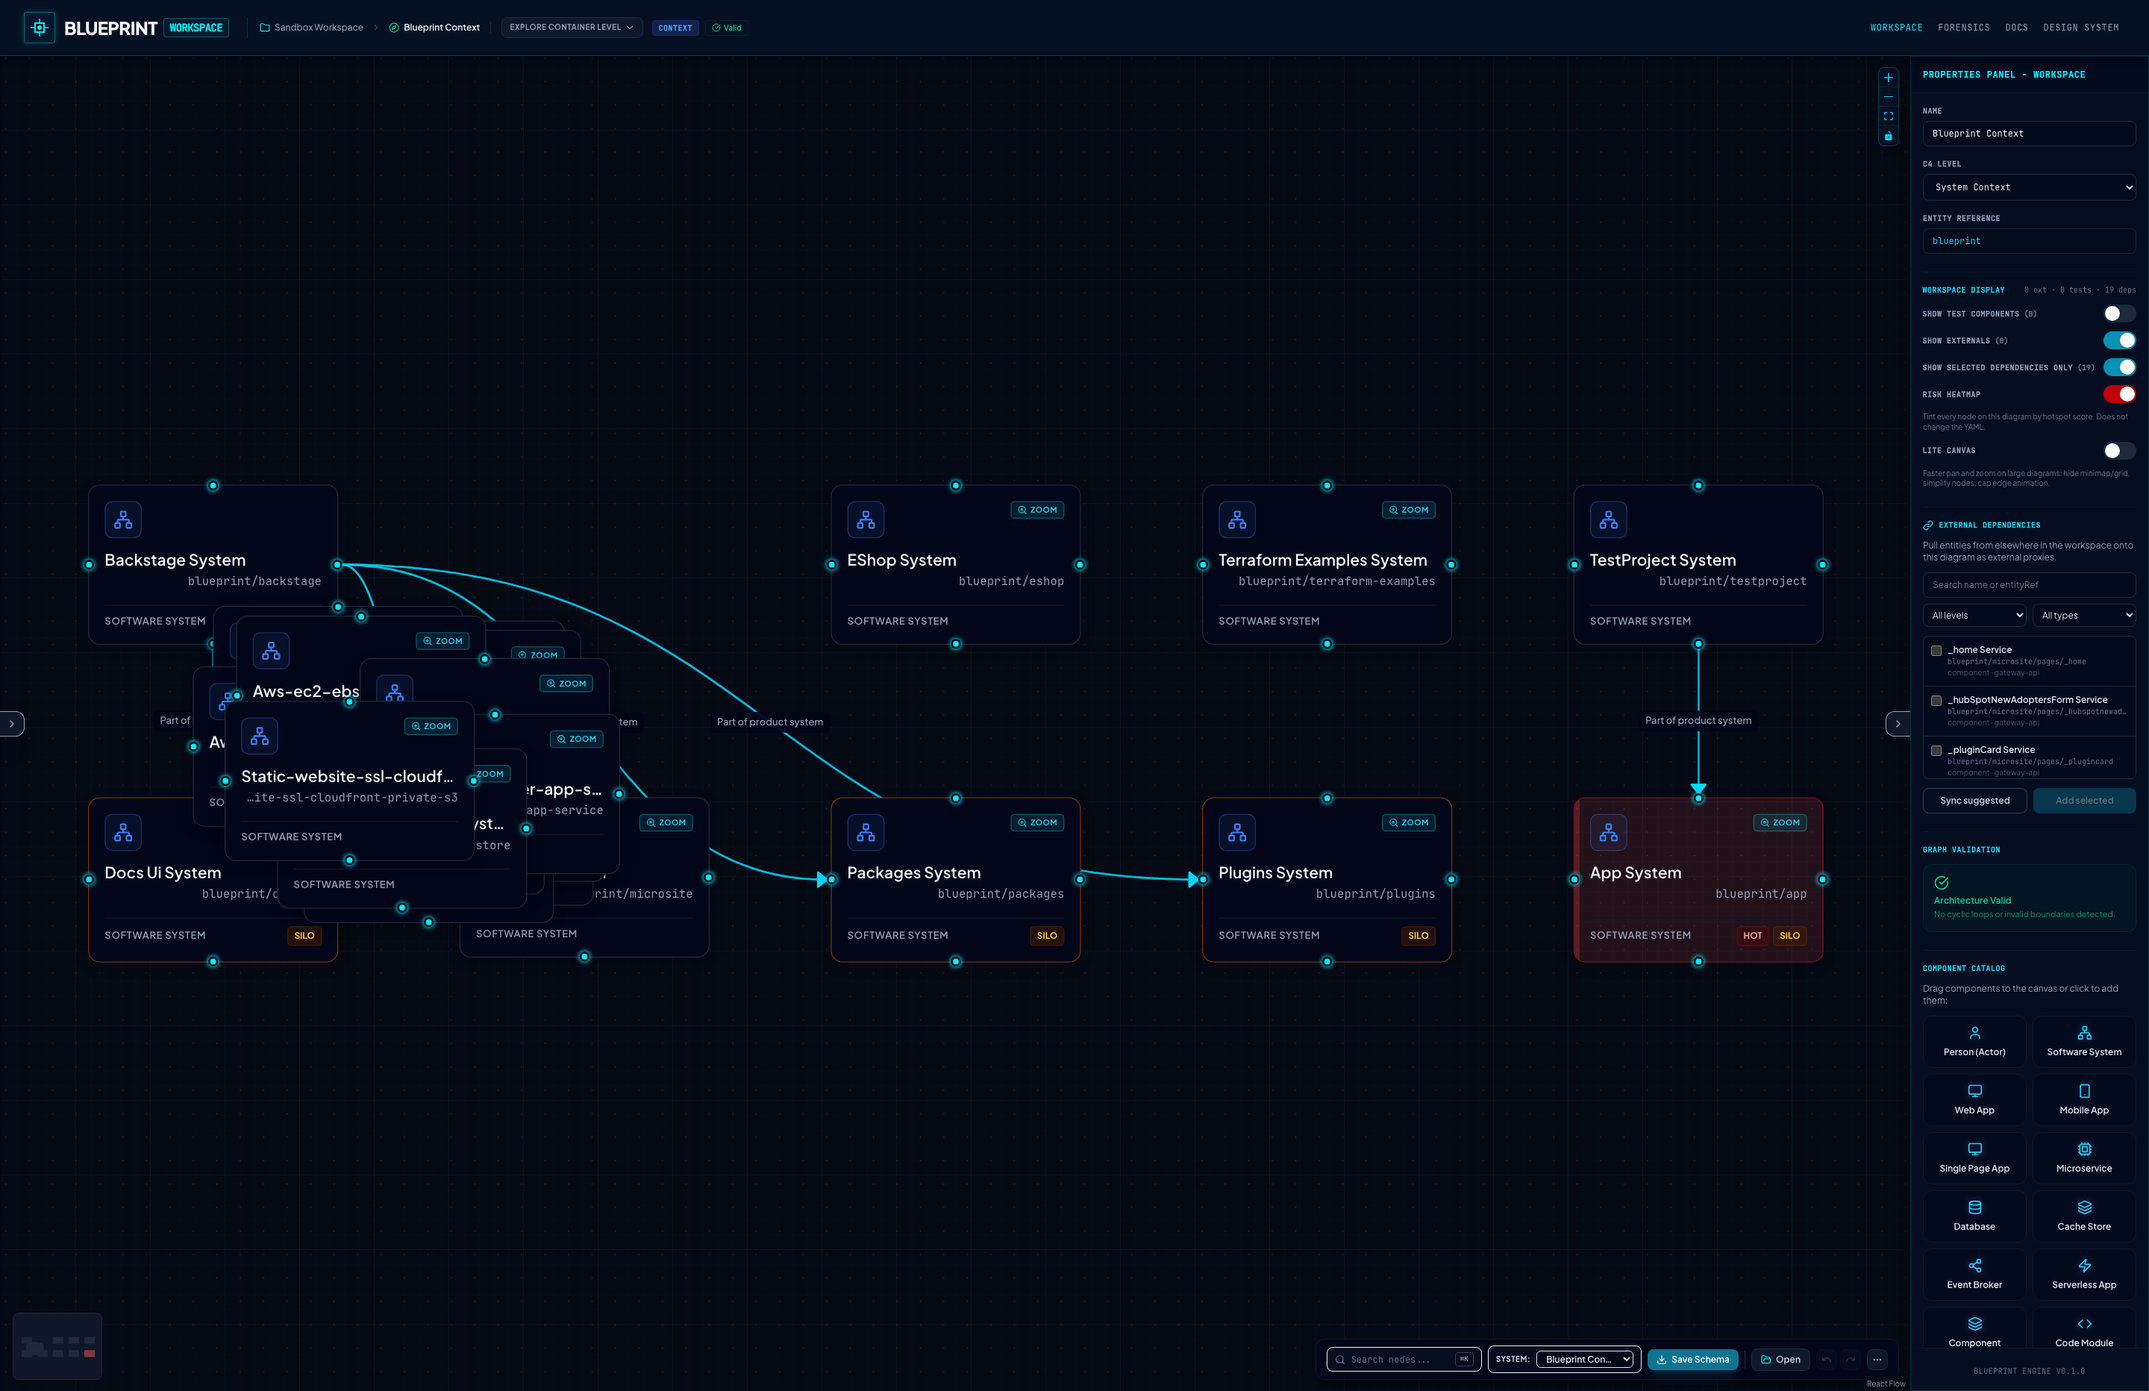
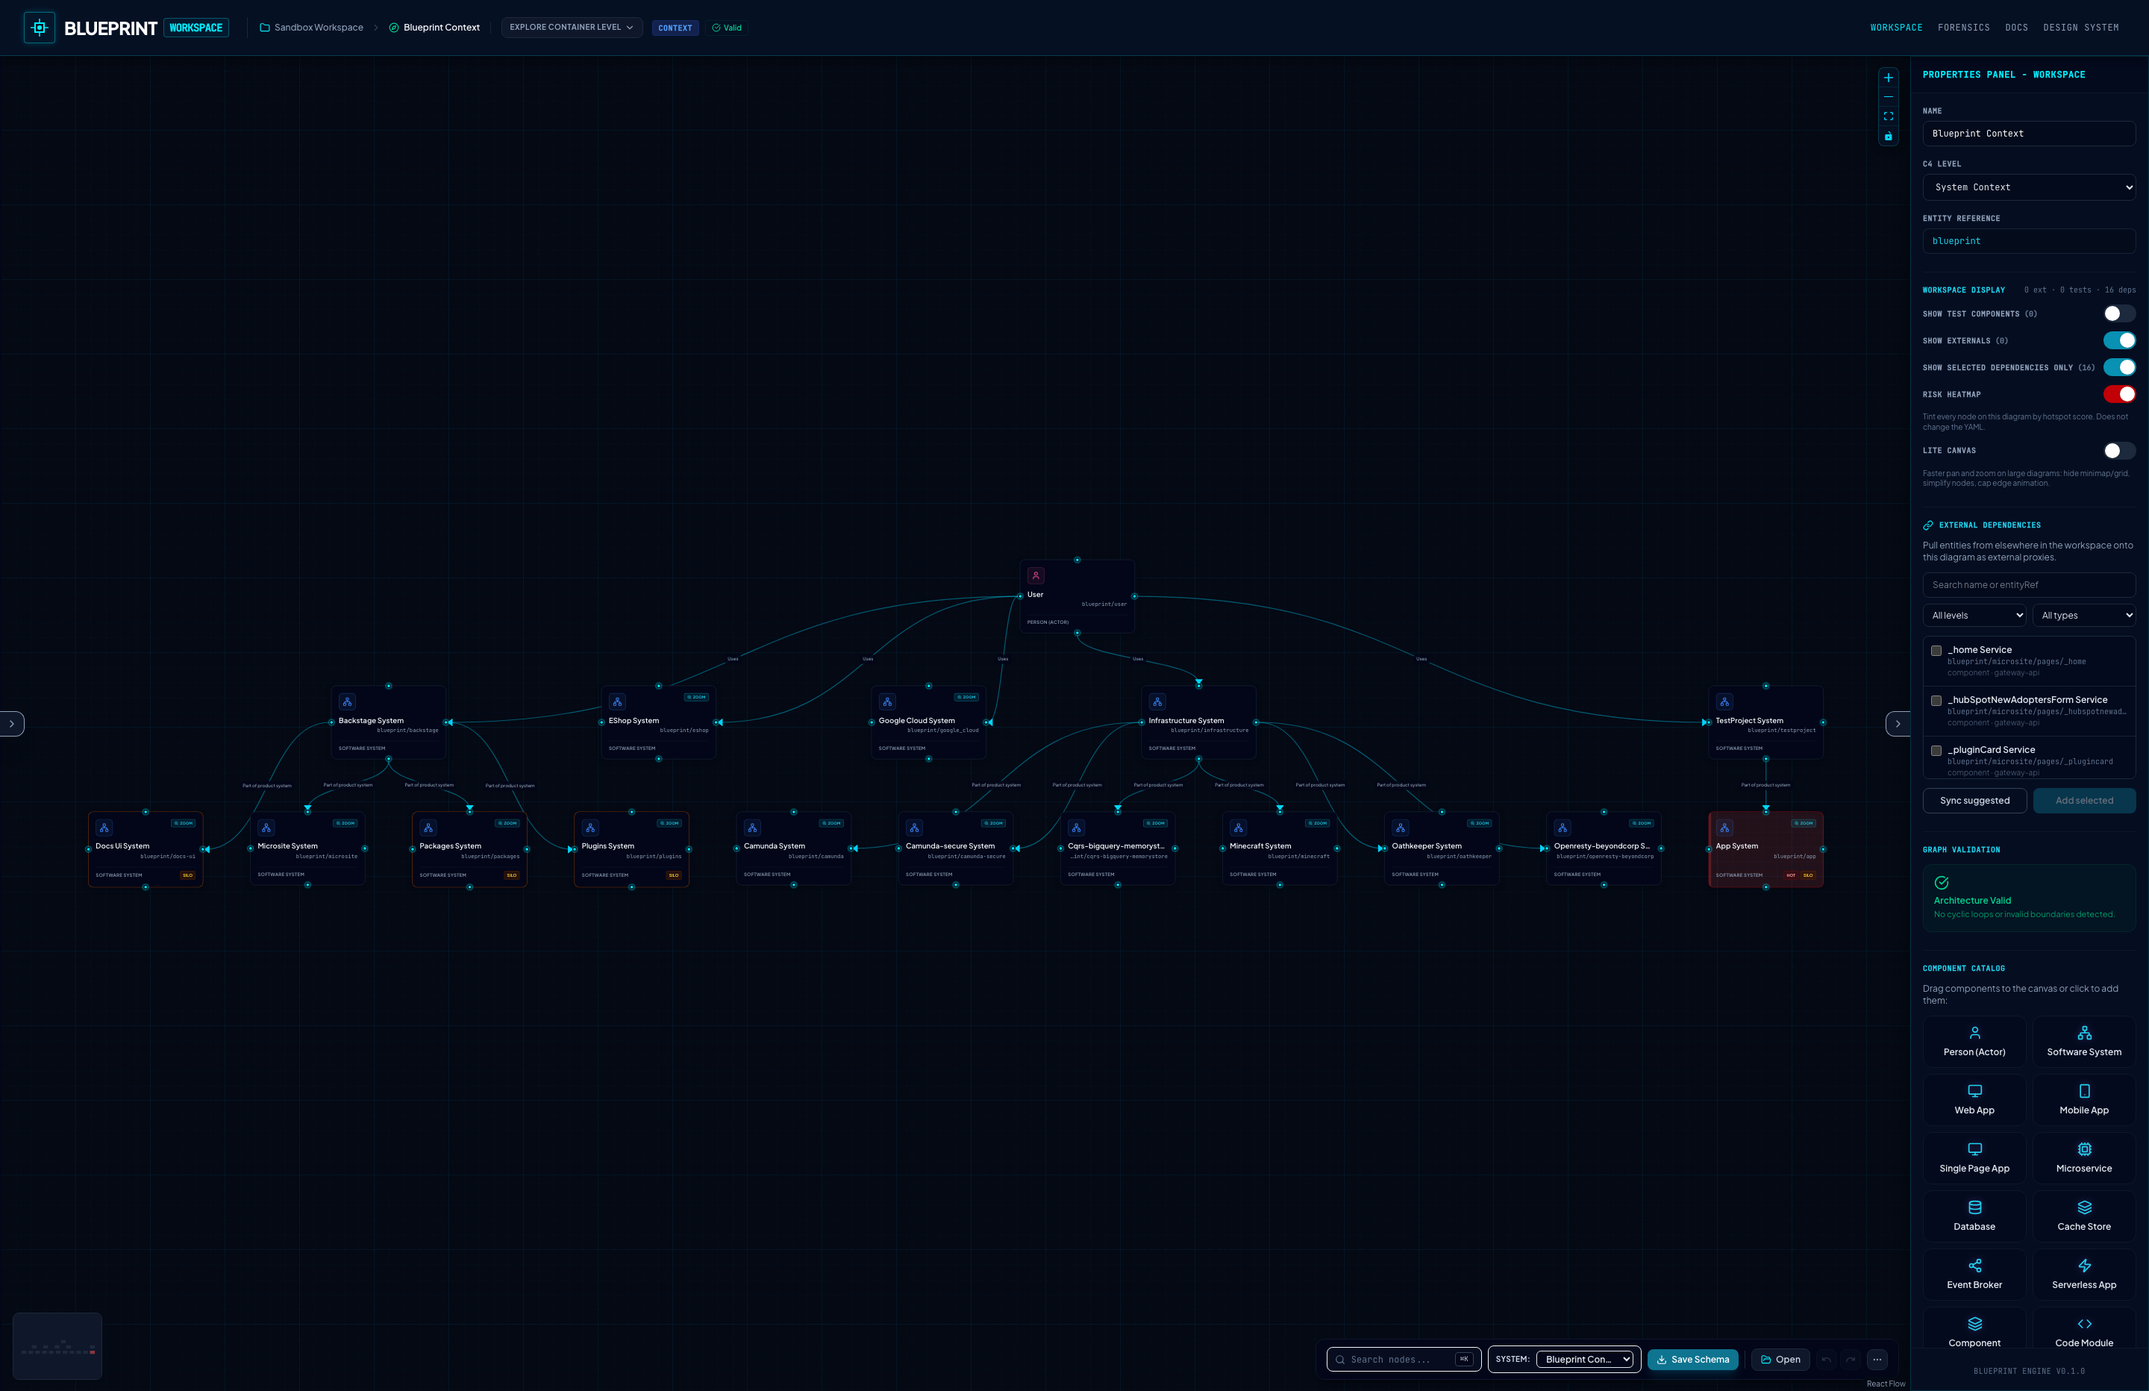
feat: add mapDomainDepsToRFEdges function to drop duplicate edges and update related usages across layout utilities and diagram state management

diff --git a/app/packages/designer/tests/e2e.spec.ts b/app/packages/designer/tests/e2e.spec.ts
@@ -30,8 +30,10 @@ test.describe('Blueprint E2E Journeys', () => {
   });
 
   test('Workspace Selection & Visual Panel Collapse', async ({ page }) => {
+    test.setTimeout(60_000);
     await page.goto('/workspace');
     await continueWithSandbox(page);
+    await expect(page.getByTestId('startup-workspace-dialog')).toHaveCount(0);
 
     const leftPanelButton = page.locator('button[aria-label="Toggle Left Panel"]');
     const rightPanelButton = page.locator('button[aria-label="Toggle Right Panel"]');
@@ -62,6 +64,7 @@ test.describe('Blueprint E2E Journeys', () => {
   });
 
   test('Visual C4 Navigation (Zoom In / Zoom Out / URL Routing)', async ({ page }) => {
+    test.setTimeout(60_000);
     await page.goto('/workspace/blueprint');
     await continueWithSandbox(page);
     await page.locator('button[aria-label="Toggle Right Panel"]').click();
@@ -92,12 +95,15 @@ test.describe('Blueprint E2E Journeys', () => {
     await expect(page.locator('#workspace-slug-input')).toHaveValue('blueprint/app/app');
     expect(page.url()).toContain('/workspace/blueprint/app/app');
 
+    // Blur inputs so Escape is handled as zoom-out, not ignored while typing.
+    await page.evaluate(() => (document.activeElement as HTMLElement | null)?.blur());
     await page.keyboard.press('Escape');
 
     await expect(page.locator('#workspace-name-input')).toHaveValue('App Containers');
     await expect(page.locator('#workspace-slug-input')).toHaveValue('blueprint/app');
     expect(page.url()).toContain('/workspace/blueprint/app');
 
+    await page.evaluate(() => (document.activeElement as HTMLElement | null)?.blur());
     await page.keyboard.press('Escape');
 
     await expect(page.locator('#workspace-name-input')).toHaveValue('Blueprint Context');

diff --git a/app/packages/designer/tests/e2e-journeys.spec.ts b/app/packages/designer/tests/e2e-journeys.spec.ts
@@ -184,6 +184,7 @@ async function seedStaleDraft(page: Page) {
 
 test.describe('Hierarchy zoom journeys', () => {
   test('Zoom out button and breadcrumb return to parent', async ({ page }) => {
+    test.setTimeout(60_000);
     await page.goto('/workspace/blueprint');
     await continueWithSandbox(page);
     await page.locator('button[aria-label="Toggle Right Panel"]').click();
@@ -210,13 +211,17 @@ test.describe('Hierarchy zoom journeys', () => {
     await appSystem.dblclick();
     await expect(page.locator('#workspace-slug-input')).toHaveValue('blueprint/app');
 
-    const contextCrumb = page.locator('a[href="/workspace/blueprint"]').first();
+    const contextCrumb = page.getByRole('link', { name: /Blueprint Context/i });
     await expect(contextCrumb).toBeVisible();
     await contextCrumb.click();
-    await expect(page.locator('#workspace-slug-input')).toHaveValue('blueprint');
+    await expect(page).toHaveURL(/\/workspace\/blueprint$/);
+    await expect(page.locator('#workspace-slug-input')).toHaveValue('blueprint', {
+      timeout: 10000,
+    });
   });
 
   test('Backspace zooms out one level', async ({ page }) => {
+    test.setTimeout(60_000);
     await page.goto('/workspace/blueprint');
     await continueWithSandbox(page);
     await page.locator('button[aria-label="Toggle Right Panel"]').click();
@@ -229,6 +234,7 @@ test.describe('Hierarchy zoom journeys', () => {
       timeout: 10000,
     });
 
+    await page.evaluate(() => (document.activeElement as HTMLElement | null)?.blur());
     await page.keyboard.press('Backspace');
     await expect(page.locator('#workspace-slug-input')).toHaveValue('blueprint');
   });

diff --git a/app/reporters/vitestFeatureReporter.ts b/app/reporters/vitestFeatureReporter.ts
@@ -3,7 +3,9 @@
  * Emits Markdown feature docs from describe/it titles (behavioral tests only),
  * grouped as Package → File → describe tree.
  */
+import fs from 'node:fs';
 import path from 'node:path';
+import prettier from 'prettier';
 import type { Reporter, TestCase, TestModule, TestSuite } from 'vitest/node';
 import { XFeatureReporter } from 'x-feature-reporter';
 import { MarkdownAdapter } from 'x-feature-reporter/adapters/markdown';
@@ -103,6 +105,19 @@ function sortBuckets(bucket: SuiteBucket): void {
   for (const child of bucket.suites) sortBuckets(child);
 }
 
+/** Format report Markdown so it matches project Prettier rules. */
+export async function formatFeatureMarkdownFile(filePath: string): Promise<void> {
+  const source = fs.readFileSync(filePath, 'utf8');
+  const config = await prettier.resolveConfig(filePath);
+  const formatted = await prettier.format(source, {
+    ...config,
+    filepath: filePath,
+  });
+  if (formatted !== source) {
+    fs.writeFileSync(filePath, formatted);
+  }
+}
+
 export class VitestFeatureReporter implements Reporter {
   readonly options: Required<Pick<VitestFeatureReporterOptions, 'outputFile'>> &
     VitestFeatureReporterOptions;
@@ -147,5 +162,6 @@ export class VitestFeatureReporter implements Reporter {
       embeddingPlaceholder: this.options.embeddingPlaceholder,
     });
     new XFeatureReporter(adapter).generateReport(xRoot);
+    await formatFeatureMarkdownFile(outputFile);
   }
 }

diff --git a/app/packages/designer/src/application/store/states/diagramState/initialState.ts b/app/packages/designer/src/application/store/states/diagramState/initialState.ts
@@ -4,7 +4,11 @@ import {
   resolveWorkspaceEntityRefs,
   type SystemSchema,
 } from '@blueprint/core';
-import { mapDomainNodeToRFNode, mapDomainDepToRFEdge, getClosestHandles } from '../../layoutUtils';
+import {
+  mapDomainNodeToRFNode,
+  mapDomainDepsToRFEdges,
+  getClosestHandles,
+} from '../../layoutUtils';
 import type { BlueprintRFNode, BlueprintRFEdge } from '../../layoutUtils';
 import { defaultLoadedSystems, defaultInitialSchema } from '../../defaultData';
 
@@ -49,9 +53,8 @@ export function createDiagramInitialState(): DiagramInitialState {
         },
       };
     });
-  const initialEdges = initialSchemaResolved.dependencies
-    .map(mapDomainDepToRFEdge)
-    .map((edge: BlueprintRFEdge) => {
+  const initialEdges = mapDomainDepsToRFEdges(initialSchemaResolved.dependencies).map(
+    (edge: BlueprintRFEdge) => {
       const sourceNode = initialNodes.find((n: BlueprintRFNode) => n.id === edge.source);
       const targetNode = initialNodes.find((n: BlueprintRFNode) => n.id === edge.target);
       if (!sourceNode || !targetNode) return edge;
@@ -61,7 +64,8 @@ export function createDiagramInitialState(): DiagramInitialState {
         sourceHandle,
         targetHandle,
       };
-    });
+    }
+  );
 
   return {
     schema: initialSchemaResolved,

diff --git a/app/reporters/vitestFeatureReporter.test.ts b/app/reporters/vitestFeatureReporter.test.ts
@@ -90,6 +90,9 @@ describe('VitestFeatureReporter', () => {
     expect(md).not.toContain('computes layout coordinates');
     // Packages sorted alphabetically: Core before Designer
     expect(md.indexOf('## Core')).toBeLessThan(md.indexOf('## Designer'));
+    // Prettier-compatible list markers and heading spacing
+    expect(md).toMatch(/\n- ✅ collapses the side panels\n/);
+    expect(md).toMatch(/## Designer\n\n### Canvas\n\n#### Canvas\n\n- ✅/);
   });
 
   it('embeds into an existing file between placeholders', async () => {
@@ -112,6 +115,11 @@ describe('VitestFeatureReporter', () => {
     expect(md).toContain('#### Workspace');
     expect(md).toContain('✅ loads the sandbox');
     expect(md).not.toContain('\nold\n');
+    expect(md).toMatch(
+      new RegExp(
+        `<!-- ${embeddingPlaceholder}--start -->\\n\\n## Designer\\n\\n### Canvas\\n\\n#### Workspace\\n\\n- ✅ loads the sandbox\\n\\n<!-- ${embeddingPlaceholder}--end -->`
+      )
+    );
   });
 
   it('marks failed and skipped tests with the correct icons', async () => {

diff --git a/app/packages/designer/src/application/store/layoutUtils.test.ts b/app/packages/designer/src/application/store/layoutUtils.test.ts
@@ -1,5 +1,10 @@
 import { describe, expect, it } from 'vitest';
-import { mapDomainNodeToRFNode, rebuildSchemaFromCanvas } from './layoutUtils.ts';
+import {
+  mapDomainDepToRFEdge,
+  mapDomainDepsToRFEdges,
+  mapDomainNodeToRFNode,
+  rebuildSchemaFromCanvas,
+} from './layoutUtils.ts';
 import type { SystemNode } from '@blueprint/core';
 
 describe('layoutUtils forensics plumbing', () => {
@@ -41,5 +46,20 @@ describe('layoutUtils forensics plumbing', () => {
       authorCount: 1,
       classifications: ['knowledge-silo'],
     });
+  });
+});
+
+describe('mapDomainDepsToRFEdges', () => {
+  it('drops duplicate from→to edges that would share a React key', () => {
+    const dep = {
+      from: 'a',
+      to: 'b',
+      type: 'direct-call' as const,
+      description: 'once',
+    };
+    const edges = mapDomainDepsToRFEdges([dep, { ...dep, description: 'again' }, dep]);
+    expect(edges).toHaveLength(1);
+    expect(edges[0]?.id).toBe(mapDomainDepToRFEdge(dep).id);
+    expect(edges[0]?.data?.description).toBe('once');
   });
 });

diff --git a/app/packages/designer/src/application/store/states/diagramState.ts b/app/packages/designer/src/application/store/states/diagramState.ts
@@ -14,7 +14,7 @@ import {
   type WorkspaceEntity,
 } from '@blueprint/core';
 import type { CanvasNodeChange, CanvasEdgeChange, CanvasConnection } from '../../../core';
-import { mapDomainNodeToRFNode, mapDomainDepToRFEdge } from '../layoutUtils';
+import { mapDomainNodeToRFNode, mapDomainDepsToRFEdges } from '../layoutUtils';
 import type { BlueprintRFNode, BlueprintRFEdge } from '../layoutUtils';
 import { applyStateUpdates } from './diagramState/applyStateUpdates';
 import { syncExternalContainers as syncExternalContainersAction } from './diagramState/syncExternalContainers';
@@ -221,7 +221,7 @@ export const createDiagramState = (set: any, get: () => DiagramStateDeps): Diagr
     get().clearHistory();
     set({ focusedCyclePath: null });
     const rfNodes = schema.nodes.map(mapDomainNodeToRFNode);
-    const rfEdges = schema.dependencies.map(mapDomainDepToRFEdge);
+    const rfEdges = mapDomainDepsToRFEdges(schema.dependencies);
     applyStateUpdates(
       set,
       get,

diff --git a/app/packages/designer/src/application/store/states/diagramState/importMermaid.ts b/app/packages/designer/src/application/store/states/diagramState/importMermaid.ts
@@ -10,7 +10,7 @@ import {
   type SystemSchema,
 } from '@blueprint/core';
 import type { BlueprintRFNode } from '../../layoutUtils';
-import { mapDomainDepToRFEdge, mapDomainNodeToRFNode } from '../../layoutUtils';
+import { mapDomainDepsToRFEdges, mapDomainNodeToRFNode } from '../../layoutUtils';
 import { applyStateUpdates } from './applyStateUpdates';
 
 type LoadedSystem = { path: string; name: string; schema: SystemSchema };
@@ -173,7 +173,7 @@ export function executeMermaidImport(
     const merged = applyImportMergePlan(baseSchema, scopedImported, resolutions);
     const finalSchema = resolveScopedSchema(context, merged);
     const mergedRfNodes = buildMergedRfNodes(nodes, finalSchema, previousRefs);
-    const mergedRfEdges = finalSchema.dependencies.map(mapDomainDepToRFEdge);
+    const mergedRfEdges = mapDomainDepsToRFEdges(finalSchema.dependencies);
 
     recordHistory();
     applyStateUpdates(set, get, mergedRfNodes, mergedRfEdges);

diff --git a/app/packages/designer/tests/helpers/toolbar.ts b/app/packages/designer/tests/helpers/toolbar.ts
@@ -7,13 +7,15 @@ function isBareWorkspaceUrl(page: Page): boolean {
 
 /** Dismiss the startup chooser by continuing with the bundled sandbox. */
 export async function continueWithSandbox(page: Page) {
-  if (!isBareWorkspaceUrl(page)) return;
-
   const dialog = page.getByTestId('startup-workspace-dialog');
-  try {
-    await dialog.waitFor({ state: 'visible', timeout: 5_000 });
-  } catch {
-    return;
+  // Deep links usually skip the chooser, but still dismiss if it is visible.
+  if (!(await dialog.isVisible().catch(() => false))) {
+    if (!isBareWorkspaceUrl(page)) return;
+    try {
+      await dialog.waitFor({ state: 'visible', timeout: 5_000 });
+    } catch {
+      return;
+    }
   }
   await page.getByTestId('startup-load-sandbox').click();
   await expect(dialog).toHaveCount(0);

diff --git a/app/packages/designer/src/application/store/layoutUtils.ts b/app/packages/designer/src/application/store/layoutUtils.ts
@@ -155,6 +155,19 @@ export const mapDomainDepToRFEdge = (d: SystemDependency): BlueprintRFEdge => ({
   labelBgBorderRadius: 4,
 });
 
+/** Map deps to RF edges, dropping duplicate from→to pairs (same React key). */
+export const mapDomainDepsToRFEdges = (deps: SystemDependency[]): BlueprintRFEdge[] => {
+  const seen = new Set<string>();
+  const edges: BlueprintRFEdge[] = [];
+  for (const dep of deps) {
+    const edge = mapDomainDepToRFEdge(dep);
+    if (seen.has(edge.id)) continue;
+    seen.add(edge.id);
+    edges.push(edge);
+  }
+  return edges;
+};
+
 export const getClosestHandles = (
   sourceNode: BlueprintRFNode,
   targetNode: BlueprintRFNode

diff --git a/docs/features-unit.md b/docs/features-unit.md
@@ -132,6 +132,10 @@ Generated from Vitest (`pnpm test:coverage`).
 - ✅ should upsert rather than duplicate when rewriting the same system
 - ✅ should log successful write
 
+#### personDependenciesForSystems
+
+- ✅ links the person to product hubs only
+
 #### productHubDependenciesForSystems
 
 - ✅ fans spokes into the product hub and ignores other products
@@ -176,6 +180,13 @@ Generated from Vitest (`pnpm test:coverage`).
 
 - ✅ skips GlobalUsings, Migrations, Designer, and ModelSnapshot files
 - ✅ keeps architectural sources
+
+### d3HierarchyLayout
+
+#### D3HierarchyLayoutAdapter
+
+- ✅ places tree children below the root
+- ✅ roots context layout at the person node when present
 
 ### dagreLayout
 
@@ -264,6 +275,7 @@ Generated from Vitest (`pnpm test:coverage`).
 - ✅ preserves existing positions when forceRelayout is false
 - ✅ forceRelayout defaults to true and recomputes all positions
 - ✅ is a no-op when the blueprints tree is empty
+- ✅ uses contextLayout for context-level schemas and dagre layout for others
 
 ### layoutWithPreservation
 
@@ -367,6 +379,7 @@ Generated from Vitest (`pnpm test:coverage`).
 #### TerraformAnalyzer
 
 - ✅ parses a terraform root and writes containers.yaml + context node
+- ✅ links multiple terraform roots under one Infrastructure hub
 - ✅ no-ops when no terraform roots exist
 
 ### terraformDiscovery
@@ -749,8 +762,8 @@ Generated from Vitest (`pnpm test:coverage`).
 #### BlueprintNode Component
 
 - ✅ renders correctly with basic node details
-- ✅ simplifies handles and chrome when liteCanvas is on
-- ✅ simplifies chrome when zoomed out
+- ✅ simplifies chrome when liteCanvas is on but keeps all edge handles mounted
+- ✅ simplifies chrome when zoomed out but keeps edge handles mounted
 - ✅ shows HOT and SILO badges for concerning forensics
 - ✅ shows COUPLED badge when couplingHighlight is set
 - ✅ exposes hotspot heat intensity for styling when heatmap is active
@@ -958,6 +971,13 @@ Generated from Vitest (`pnpm test:coverage`).
 #### DocsPage feature filter
 
 - ✅ filters the feature report as the user types
+- ✅ filters to a package when a package chip is clicked without filling the search box
+
+### DocsShell
+
+#### DocsShell
+
+- ✅ shows separate mobile scrollers for product guide and reference
 
 ### elkLayoutAdapter
 
@@ -999,6 +1019,7 @@ Generated from Vitest (`pnpm test:coverage`).
 - ✅ keeps all descendants under a matching heading
 - ✅ keeps parent package/file headings when a nested suite matches
 - ✅ counts matching feature list items
+- ✅ package mode keeps only the matching top-level ## section
 
 ### filterSelectedDependencyFocus
 
@@ -1113,6 +1134,10 @@ Generated from Vitest (`pnpm test:coverage`).
 - ✅ maps node forensics onto RF node data
 - ✅ preserves forensics when rebuilding schema from canvas
 
+#### mapDomainDepsToRFEdges
+
+- ✅ drops duplicate from→to edges that would share a React key
+
 ### layoutUtils.direction
 
 #### dependency edge direction visuals
@@ -1165,6 +1190,10 @@ Generated from Vitest (`pnpm test:coverage`).
 - ✅ resolves feature report pages
 - ✅ resolves in-app workspace links
 - ✅ maps screenshot assets under /docs-assets
+
+#### stripHtmlComments
+
+- ✅ removes HTML comments used as reporter placeholders
 
 ### PropertyPanel
 
